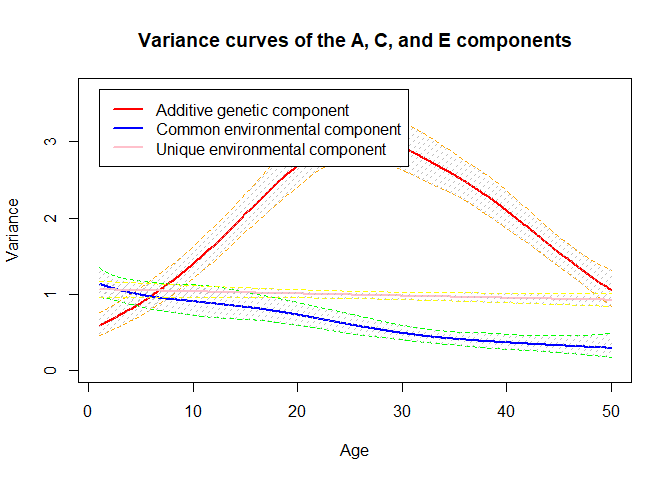
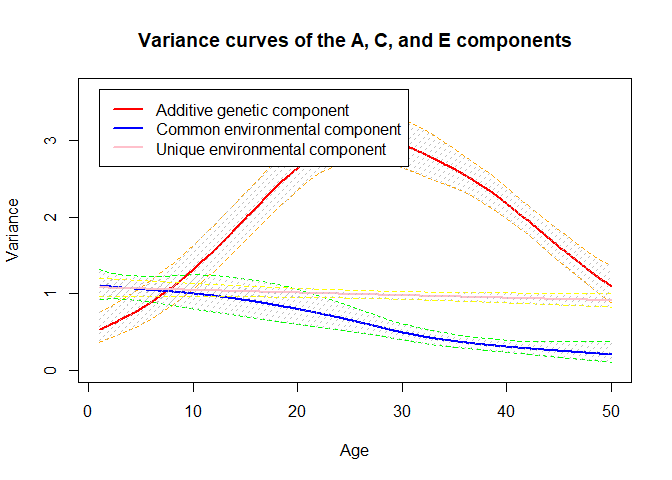
Version 1.9.0

diff --git a/README.md b/README.md
@@ -306,13 +306,17 @@ function. The `boot` option is ignored for the ACE(t)-p model.
 ![](Figs/unnamed-chunk-14-2.png)
 
 Assigning too many knots in the ACE(t)-p model is much less harmful than
-that in the ACE(t) model. Comparing the following two plots (Left: the
-ACE(t) model. Right: the ACE(t)-p model.) from the application of the
-two models with 10 knots for each component to the example data set, it
-suggests that the ACE(t) model has an overfitting problem but the
-ACE(t)-p model works properly.
+that in the ACE(t) model. Comparing the following two plots from the
+application of the two models with 10 knots for each component to the
+example data set, it suggests that the ACE(t) model has an overfitting
+problem but the ACE(t)-p model works properly.
 
-    ![](vignettes/knot_10.jpg)
+<img src="knot_10.jpg" alt="Plots of variance curves of the example data set fitted by the ACE(t) and ACE(t)-p model with 10 interior knots for each component. Left: the ACE(t) model. Right: the ACE(t)-p model." width="3600" />
+<p class="caption">
+Plots of variance curves of the example data set fitted by the ACE(t)
+and ACE(t)-p model with 10 interior knots for each component. Left: the
+ACE(t) model. Right: the ACE(t)-p model.
+</p>
 
 Finally, we give an example to test a linear or constant variance curve.
 The `test_acetp` function is dedicated to the model comparison for the
@@ -329,7 +333,7 @@ specified as log-linear when fitting the model (as shown above).
     #> [1] "Constancy (null) vs. Log-linear"
     test$p
     #>           [,1]
-    #> [1,] 0.2303072
+    #> [1,] 0.1396204
 
 The result suggests that the E component is time-invariant as the
 p-value is larger than 0.05. Next, we test whether a log-linear model
